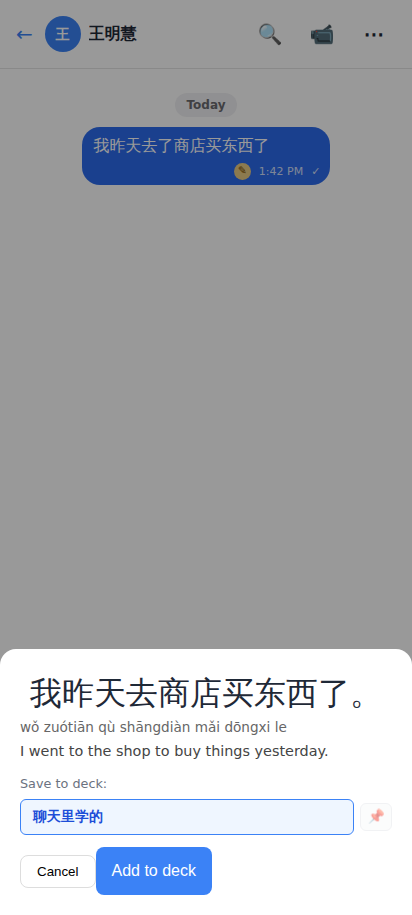
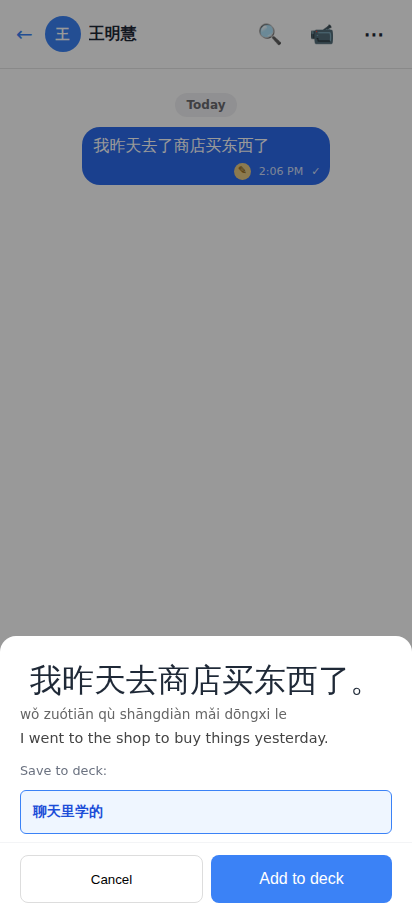
Chat auto-check: read the better sentence in my own voice; e2e follows the preselected deck

Changed region(s): [[0.0, 0.6732, 1.0, 1.0], [0.6408, 0.1836, 0.6699, 0.2142]]

diff --git a/e2e/tests/chat-auto-check.spec.ts b/e2e/tests/chat-auto-check.spec.ts
@@ -128,7 +128,8 @@ test('a student message gets the ✎, the menu starts with How to say it better,
   await expect(page.getByText('Save to deck:')).toBeVisible();
   await expect(page.locator('.rp-modal-hanzi')).toHaveText('我昨天去商店买东西了。');
   await shoot(page, 'web-04-add-card');
-  await page.getByRole('button', { name: '聊天里学的' }).click();
+  // The top deck of the queue is preselected (#507).
+  await expect(page.getByRole('radio', { name: '聊天里学的' })).toBeChecked();
   await page.getByRole('button', { name: 'Add to deck' }).click();
   await expect(page.getByRole('button', { name: '✓ Added' })).toBeVisible({ timeout: 15000 });
   await expect.poll(async () => {

diff --git a/android-lab/app/src/main/java/dev/jeromeswannack/chineselearning/lab/ui/chat/ChatViewModel.kt b/android-lab/app/src/main/java/dev/jeromeswannack/chineselearning/lab/ui/chat/ChatViewModel.kt
@@ -1457,7 +1457,7 @@ class ChatViewModel(private val app: LabApp, private val relId: String, private 
      * Read aloud [text] in MY voice (the corrected sentence of "How to say it better" — always my own
      * message); [id] = what shows as playing ("say-better-<messageId>").
      */
-    fun playText(id: String, text: String) = speak(id, _ui.value.myId, text, null)
+    fun playText(id: String, text: String) = speak(id, _ui.value.myId.orEmpty(), text, null)
 
     private fun speak(id: String, senderId: String, text: String, messageId: String?) {
         if (_ui.value.playingId == id) { stopAudio(); return }
